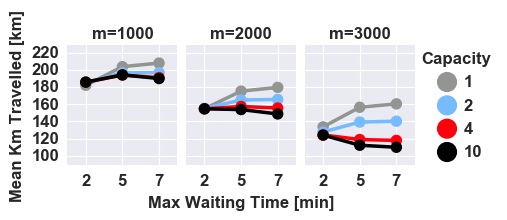
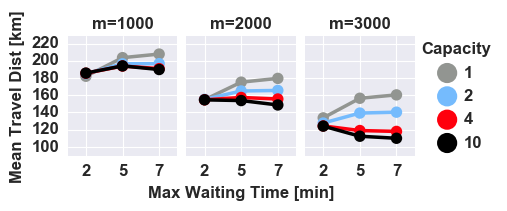
Change ylabel of distance travelled plot

diff --git a/scripts/plot_metrics.py b/scripts/plot_metrics.py
@@ -78,7 +78,7 @@ def prettify(text):
     if text == "n_shared_perc":
         return "% of Shared Trips"
     if text == "km_travelled_per_car":
-        return "Mean Km Travelled [km]"
+        return "Mean Travel Dist [km]"
     if text == "serviced_percentage":
         return "% Serviced Requests"
     if text == "comp_time":
